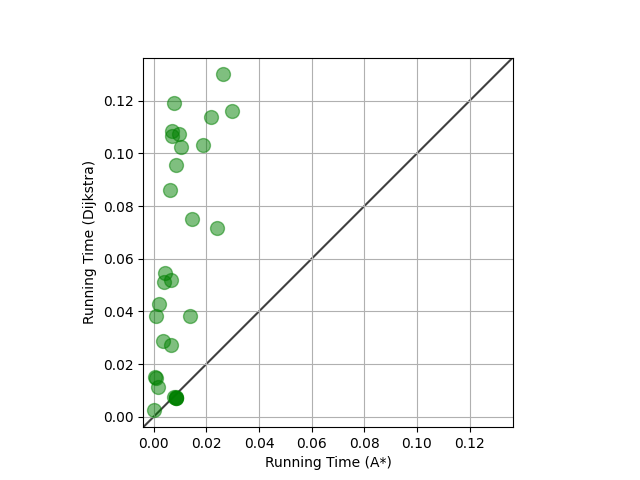
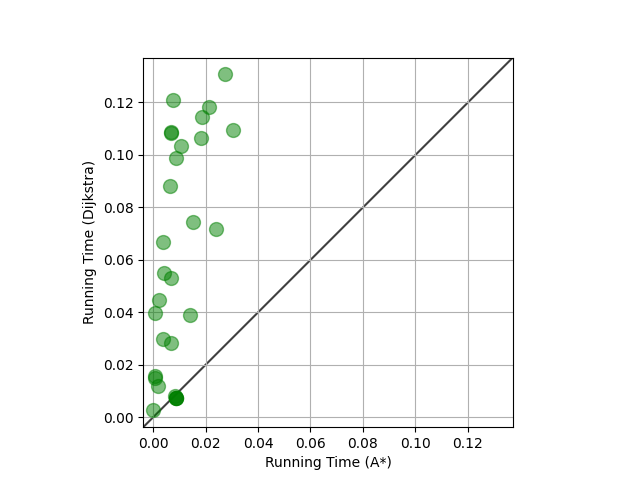
Add weighted A* support and related plots
Modified the A* algorithm to accept a weight parameter for heuristic scaling, enabling weighted A* (WA*). Updated main.py to prepare for WA* experiments and added new plot images for nodes expanded and running time with WA*. Also updated running_time.png with new results.

diff --git a/starter/main.py b/starter/main.py
@@ -37,9 +37,11 @@ def main():
     
     nodes_expanded_dijkstra = []  
     nodes_expanded_astar = []
+    nodes_expanded_wastar = []
 
     time_dijkstra = []  
     time_astar = []
+    time_wastar = []
 
     start_states = []
     goal_states = []
@@ -77,7 +79,7 @@ def main():
             print()
 
             solved_all_problems = False
-
+        
         start = start_states[i]
         goal = goal_states[i]
     
@@ -99,13 +101,26 @@ def main():
             print()
 
             solved_all_problems = False
+        """
+        start = start_states[i]
+        goal = goal_states[i]
 
+        time_start = time.time()
+        path, cost, expanded_wastar = a_star(start, goal, gridded_map, w=1.5)
+        time_end = time.time()
+        nodes_expanded_wastar.append(expanded_wastar)
+        time_wastar.append(time_end - time_start)
+        """
     if solved_all_problems: print('The implementation successfully passed all test cases.')
 
     from search.plot_results import PlotResults
     plotter = PlotResults()
     plotter.plot_results(nodes_expanded_astar, nodes_expanded_dijkstra, "Nodes Expanded (A*)", "Nodes Expanded (Dijkstra)", "nodes_expanded")
     plotter.plot_results(time_astar, time_dijkstra, "Running Time (A*)", "Running Time (Dijkstra)", "running_time")
+    #plotter.plot_results(nodes_expanded_astar, nodes_expanded_wastar, "Nodes Expanded (A*)", "Nodes Expanded (WA*, w=1.25)","nodes_expanded_wastar")
+    #plotter.plot_results(time_astar, time_wastar,"Running Time (A*)", "Running Time (WA*, w=1.25)","running_time_wastar")
+
+
 
 if __name__ == "__main__":
     main()

diff --git a/starter/search/algorithms.py b/starter/search/algorithms.py
@@ -181,7 +181,7 @@ def dijkstras(start_state, goal_state, gridded_map):
     #If we get here, no path was found
     return None, -1, expanded_nodes
 
-def a_star(start_state, goal_state, gridded_map):
+def a_star(start_state, goal_state, gridded_map, w=1.0):
     """
     Implements the A* algorithm to find the lowest-cost path from start_state to goal_state
     on the given gridded_map. The function returns a tuple containing the path found (as a list of states),
@@ -249,7 +249,7 @@ def a_star(start_state, goal_state, gridded_map):
                 
                 #Update the cost of the child because we found a better path to it
                 h = heuristic(child, goal_state)
-                child.set_cost(new_g + h)
+                child.set_cost(new_g + h*w)
                 
 
                 #Push the child into OPEN so that we can expand it later
